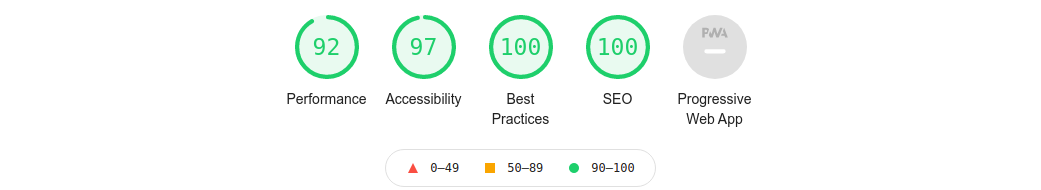
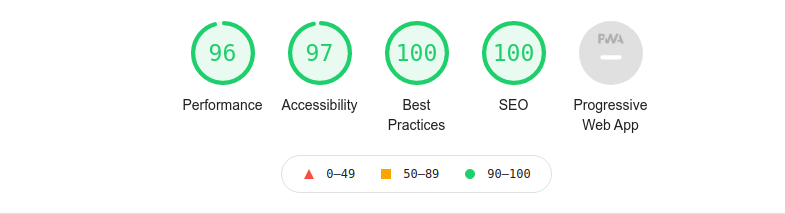
Added Testimonials section description, changed the performance image

diff --git a/README.md b/README.md
@@ -85,3 +85,18 @@ The Animal Shelter website allows people to learn about the company "Animal Shel
 
     
     ![Highlights Section](assets/images/main_cons.png)
+
+
+    ---
++ ##### Testimonials Section
+
+    - Testimonials Sectionhas three feedbacks from people who were satisfied with the company's service.
+
+    - Each card has a picture of an animal with its owner.
+
+    - Each card has a story from the people who had an experience of using the Animal Shelter.
+
+    - Each card has a name of the pet's owner.
+
+
+    ![Testimonials Section](assets/images/testimonials.png)
